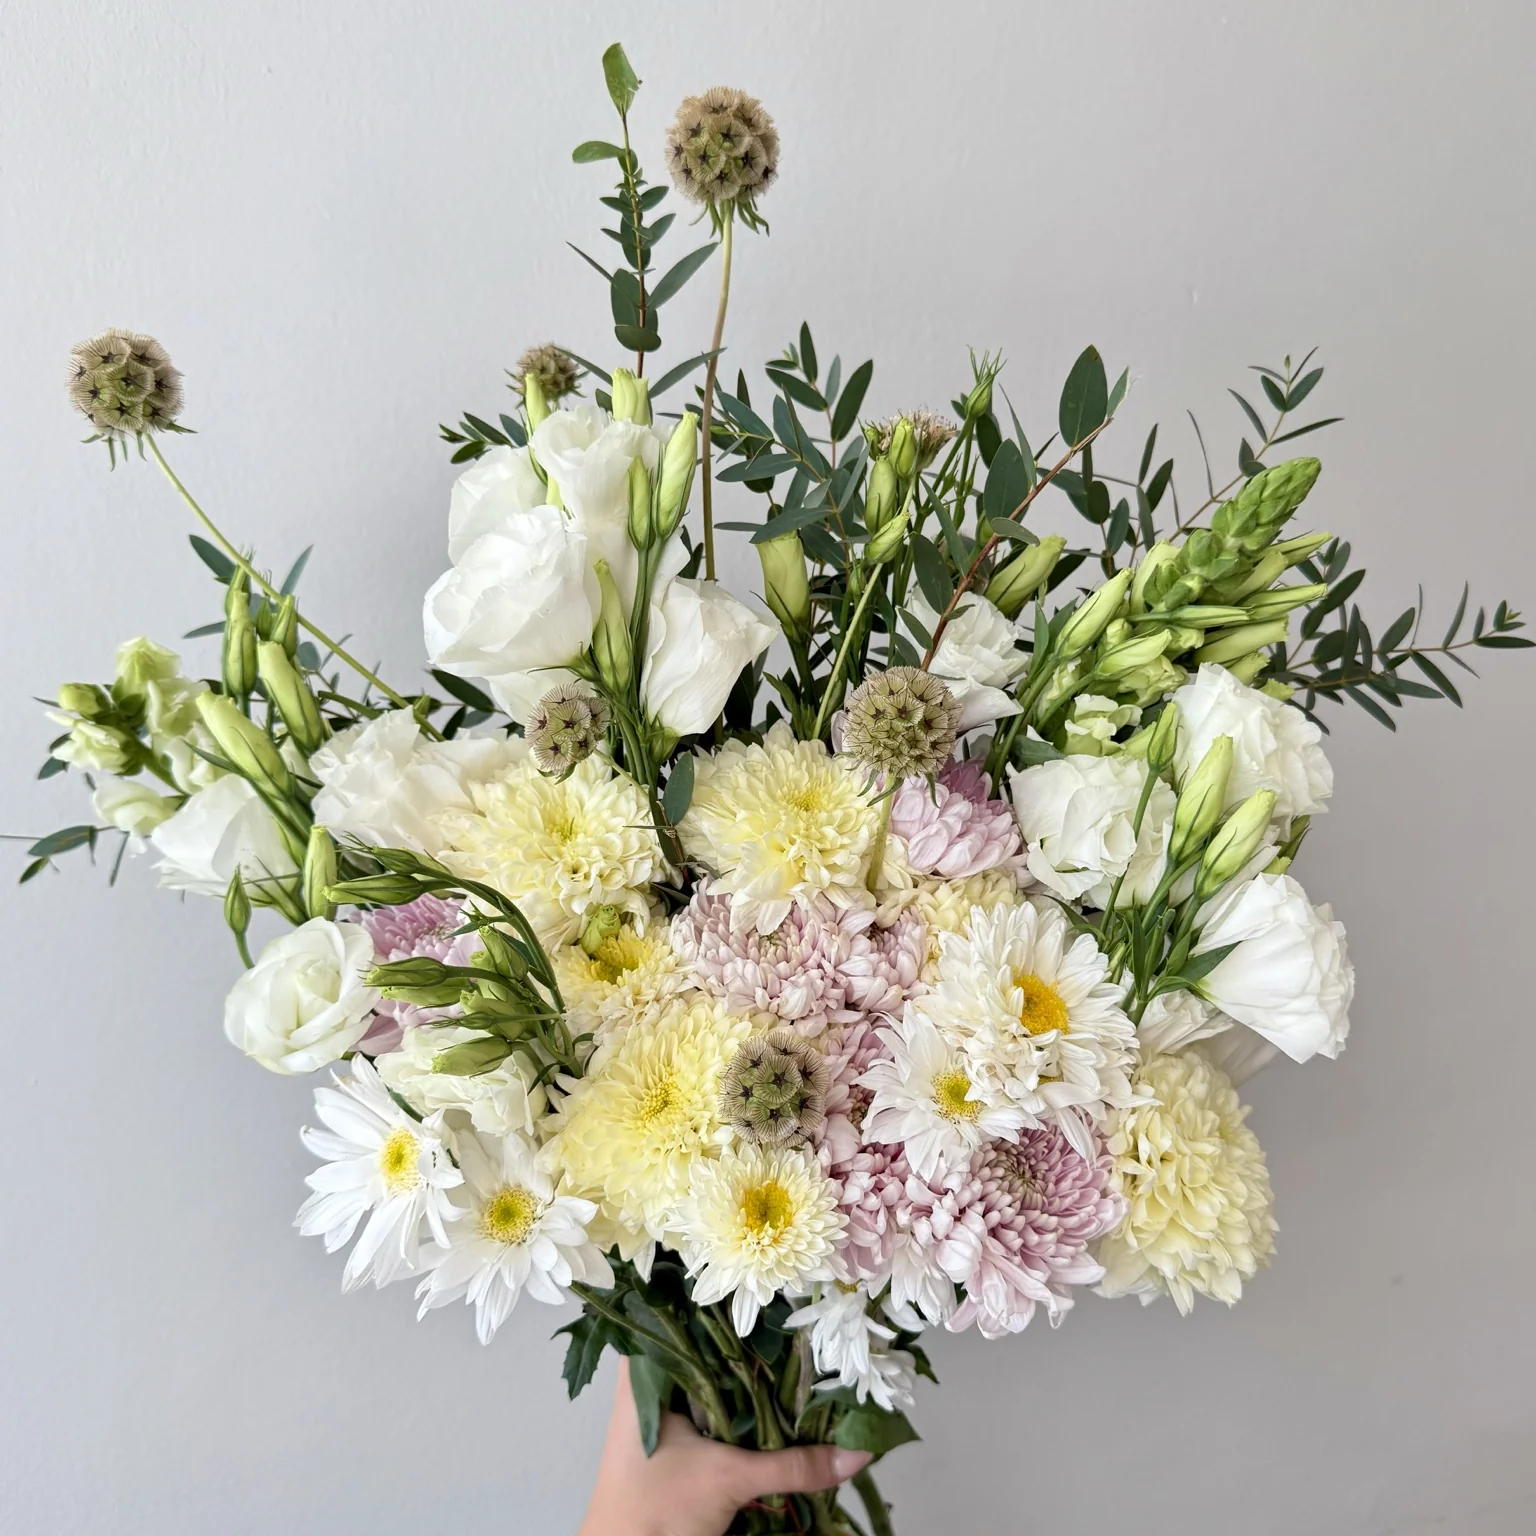
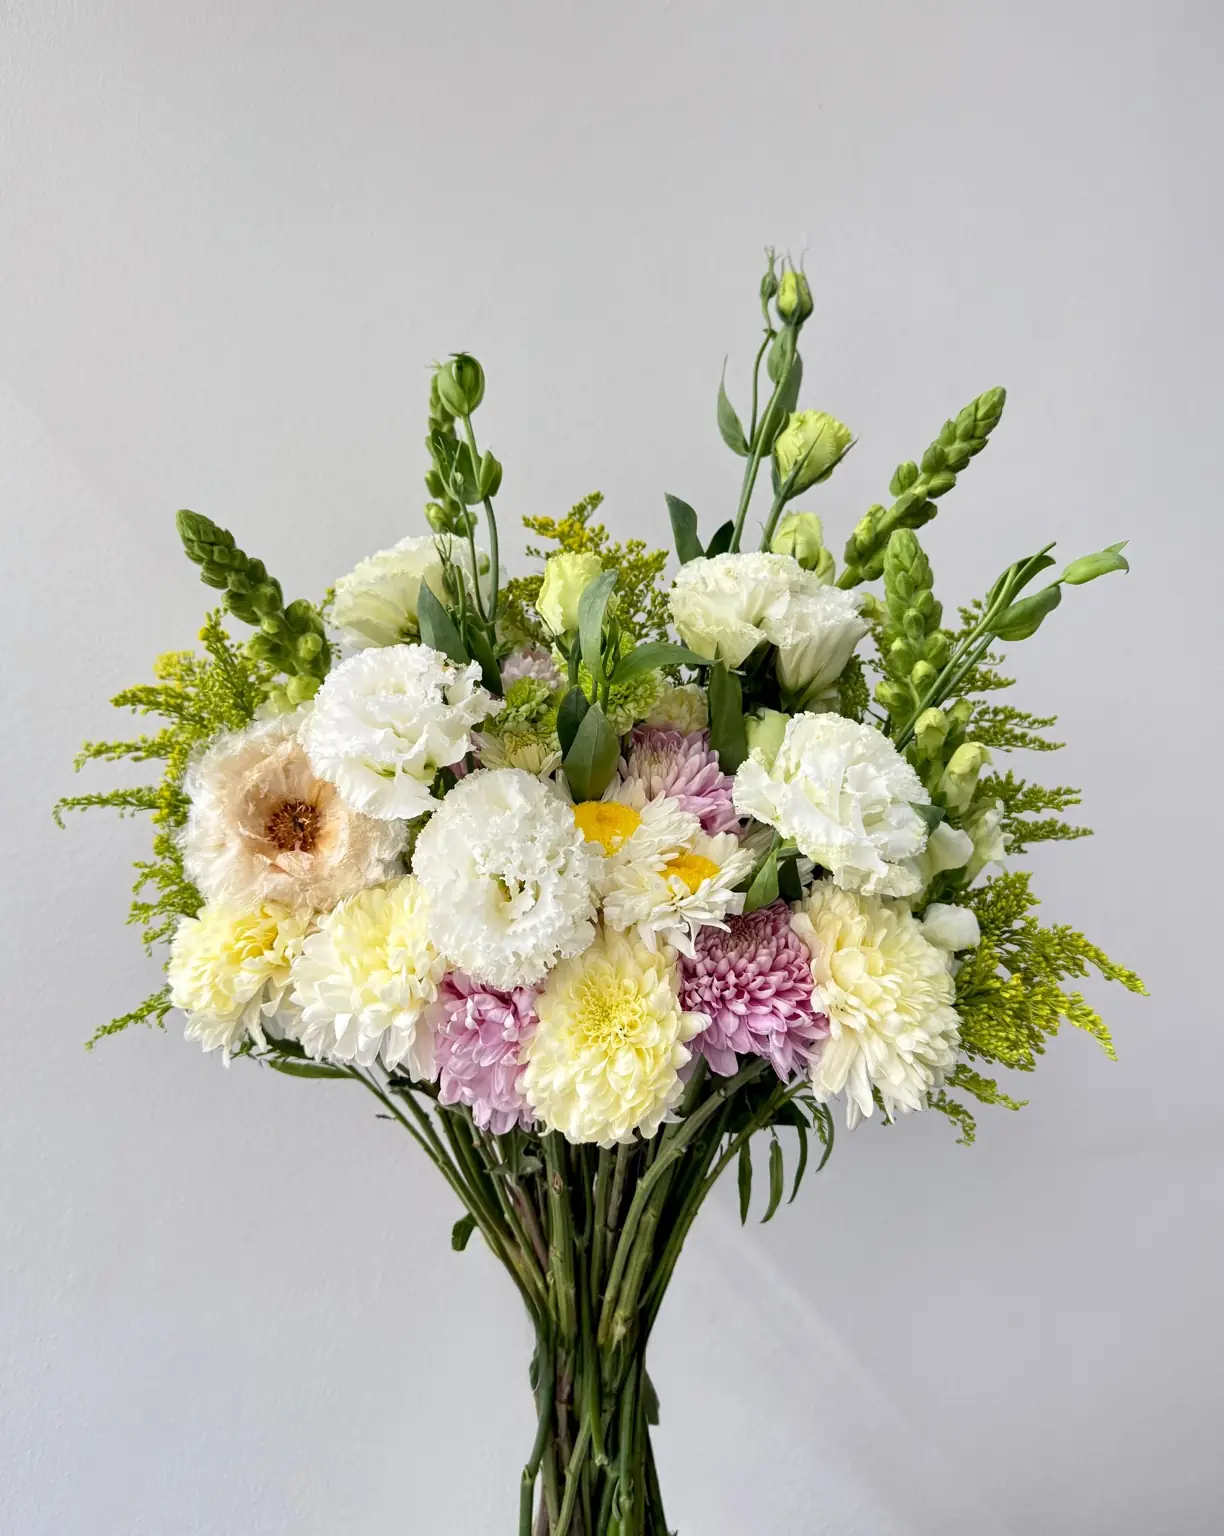
cambio de precio y foto

diff --git a/components/bouquet/BouquetDetail/constants.js b/components/bouquet/BouquetDetail/constants.js
@@ -3,7 +3,7 @@ import * as Yup from "yup";
 
 export const RAMOS = [
     { key: "rose", name: "RAMO ROSE", price: 800, img: "/media/bouquets/rose.webp" },
-    { key: "lino", name: "RAMO LINO", price: 900, img: "/media/bouquets/lino.webp" },
+    { key: "lino", name: "RAMO LINO", price: 800, img: "/media/bouquets/lino.webp" },
 ];
 
 export const cities = [
